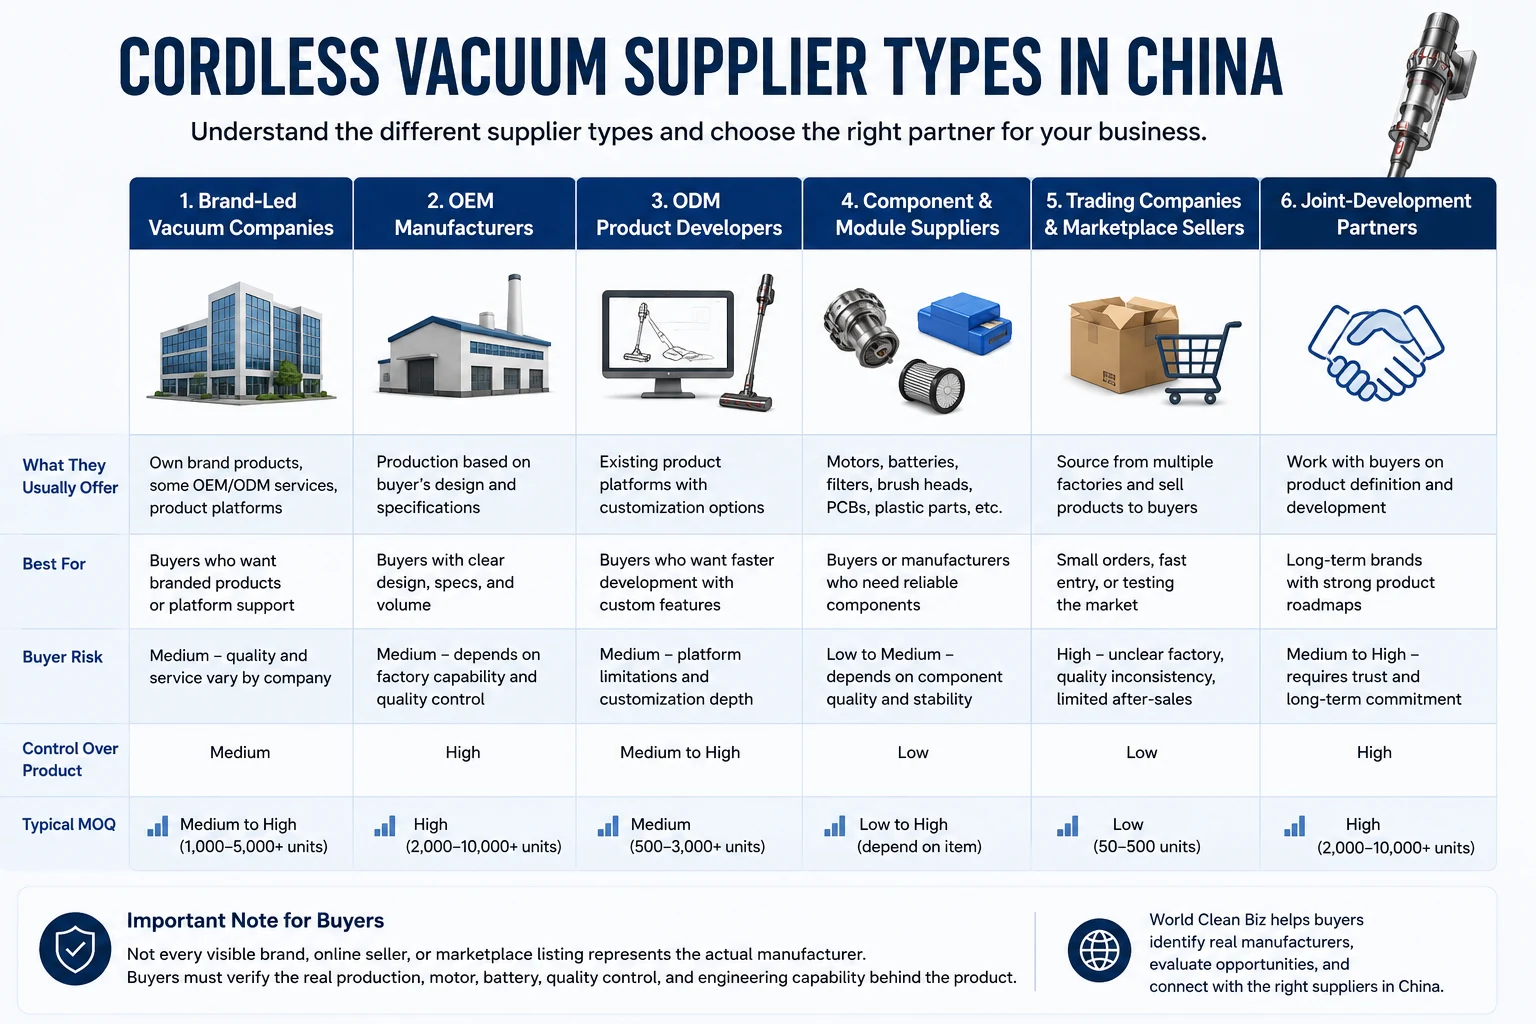
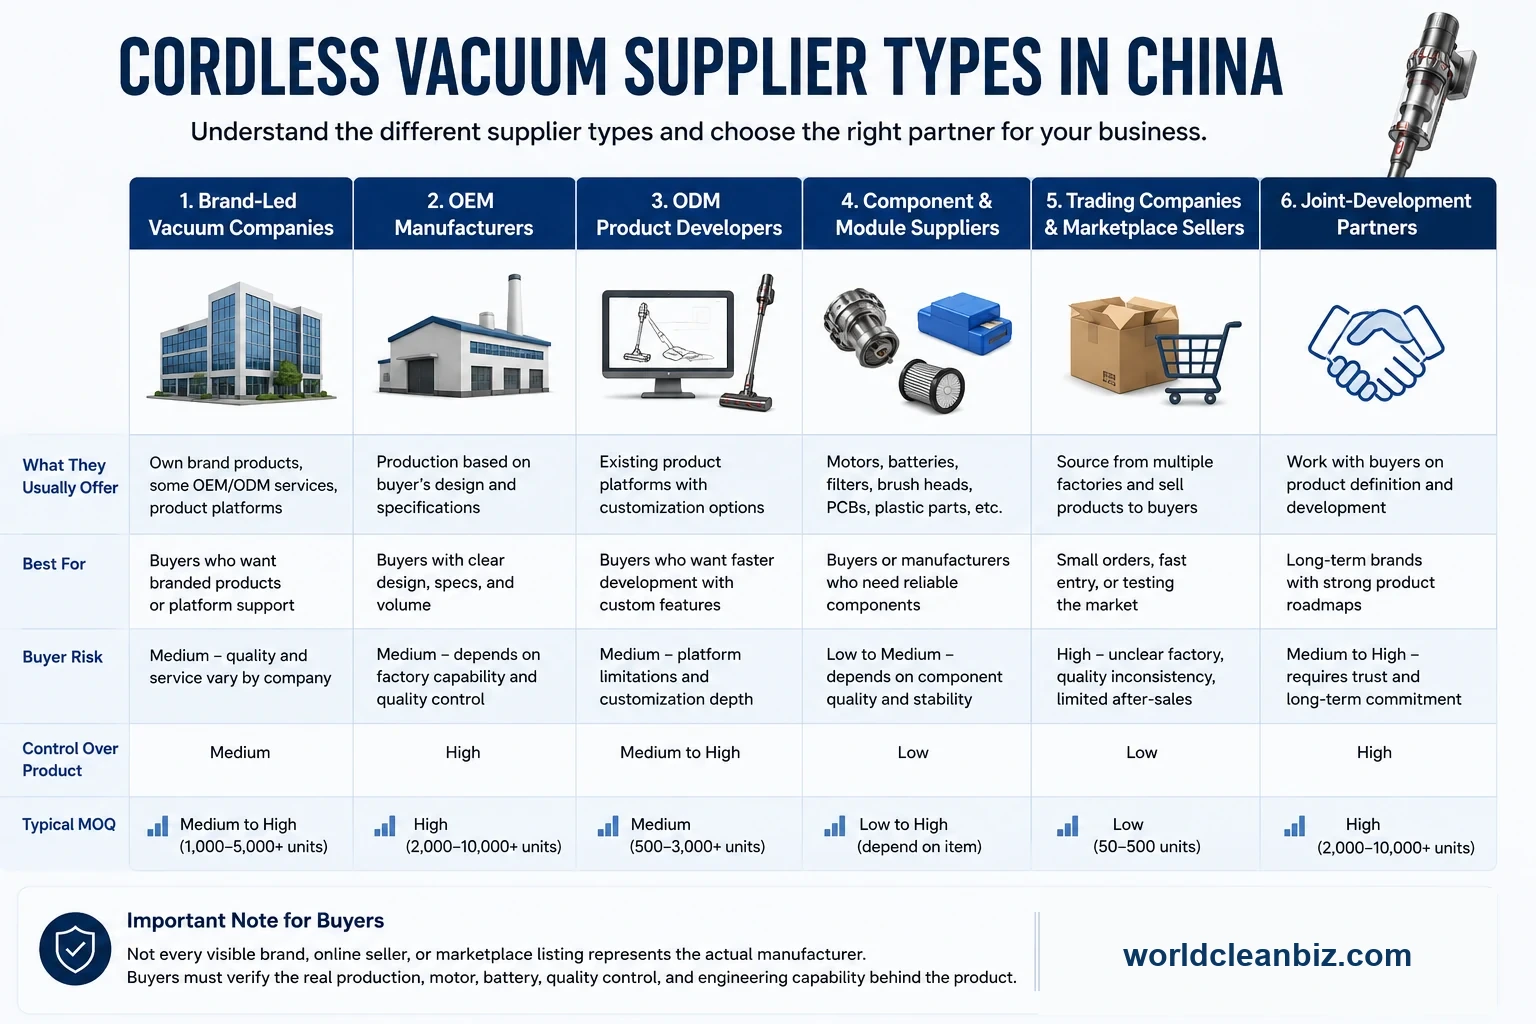
Publish floor washer buyer guide and clean up cordless article

Changed region(s): [[0.6875, 0.875, 0.9375, 0.9688]]

diff --git a/app/blog/[slug]/page.tsx b/app/blog/[slug]/page.tsx
@@ -15,6 +15,11 @@ type Props = {
 
 const siteUrl = "https://worldcleanbiz.com";
 const relatedArticleOverrides: Record<string, string[]> = {
+  "cordless-vacuum-cleaner-oem-manufacturers-china": [
+    "how-to-find-reliable-cleaning-product-suppliers-in-china",
+    "robot-vacuum-cleaners-from-china",
+    "robotic-pool-cleaner-manufacturers-china"
+  ],
   "robotic-pool-cleaner-manufacturers-china": [
     "how-to-find-reliable-cleaning-product-suppliers-in-china",
     "aiper-fluidra-pool-robotics-alliance",